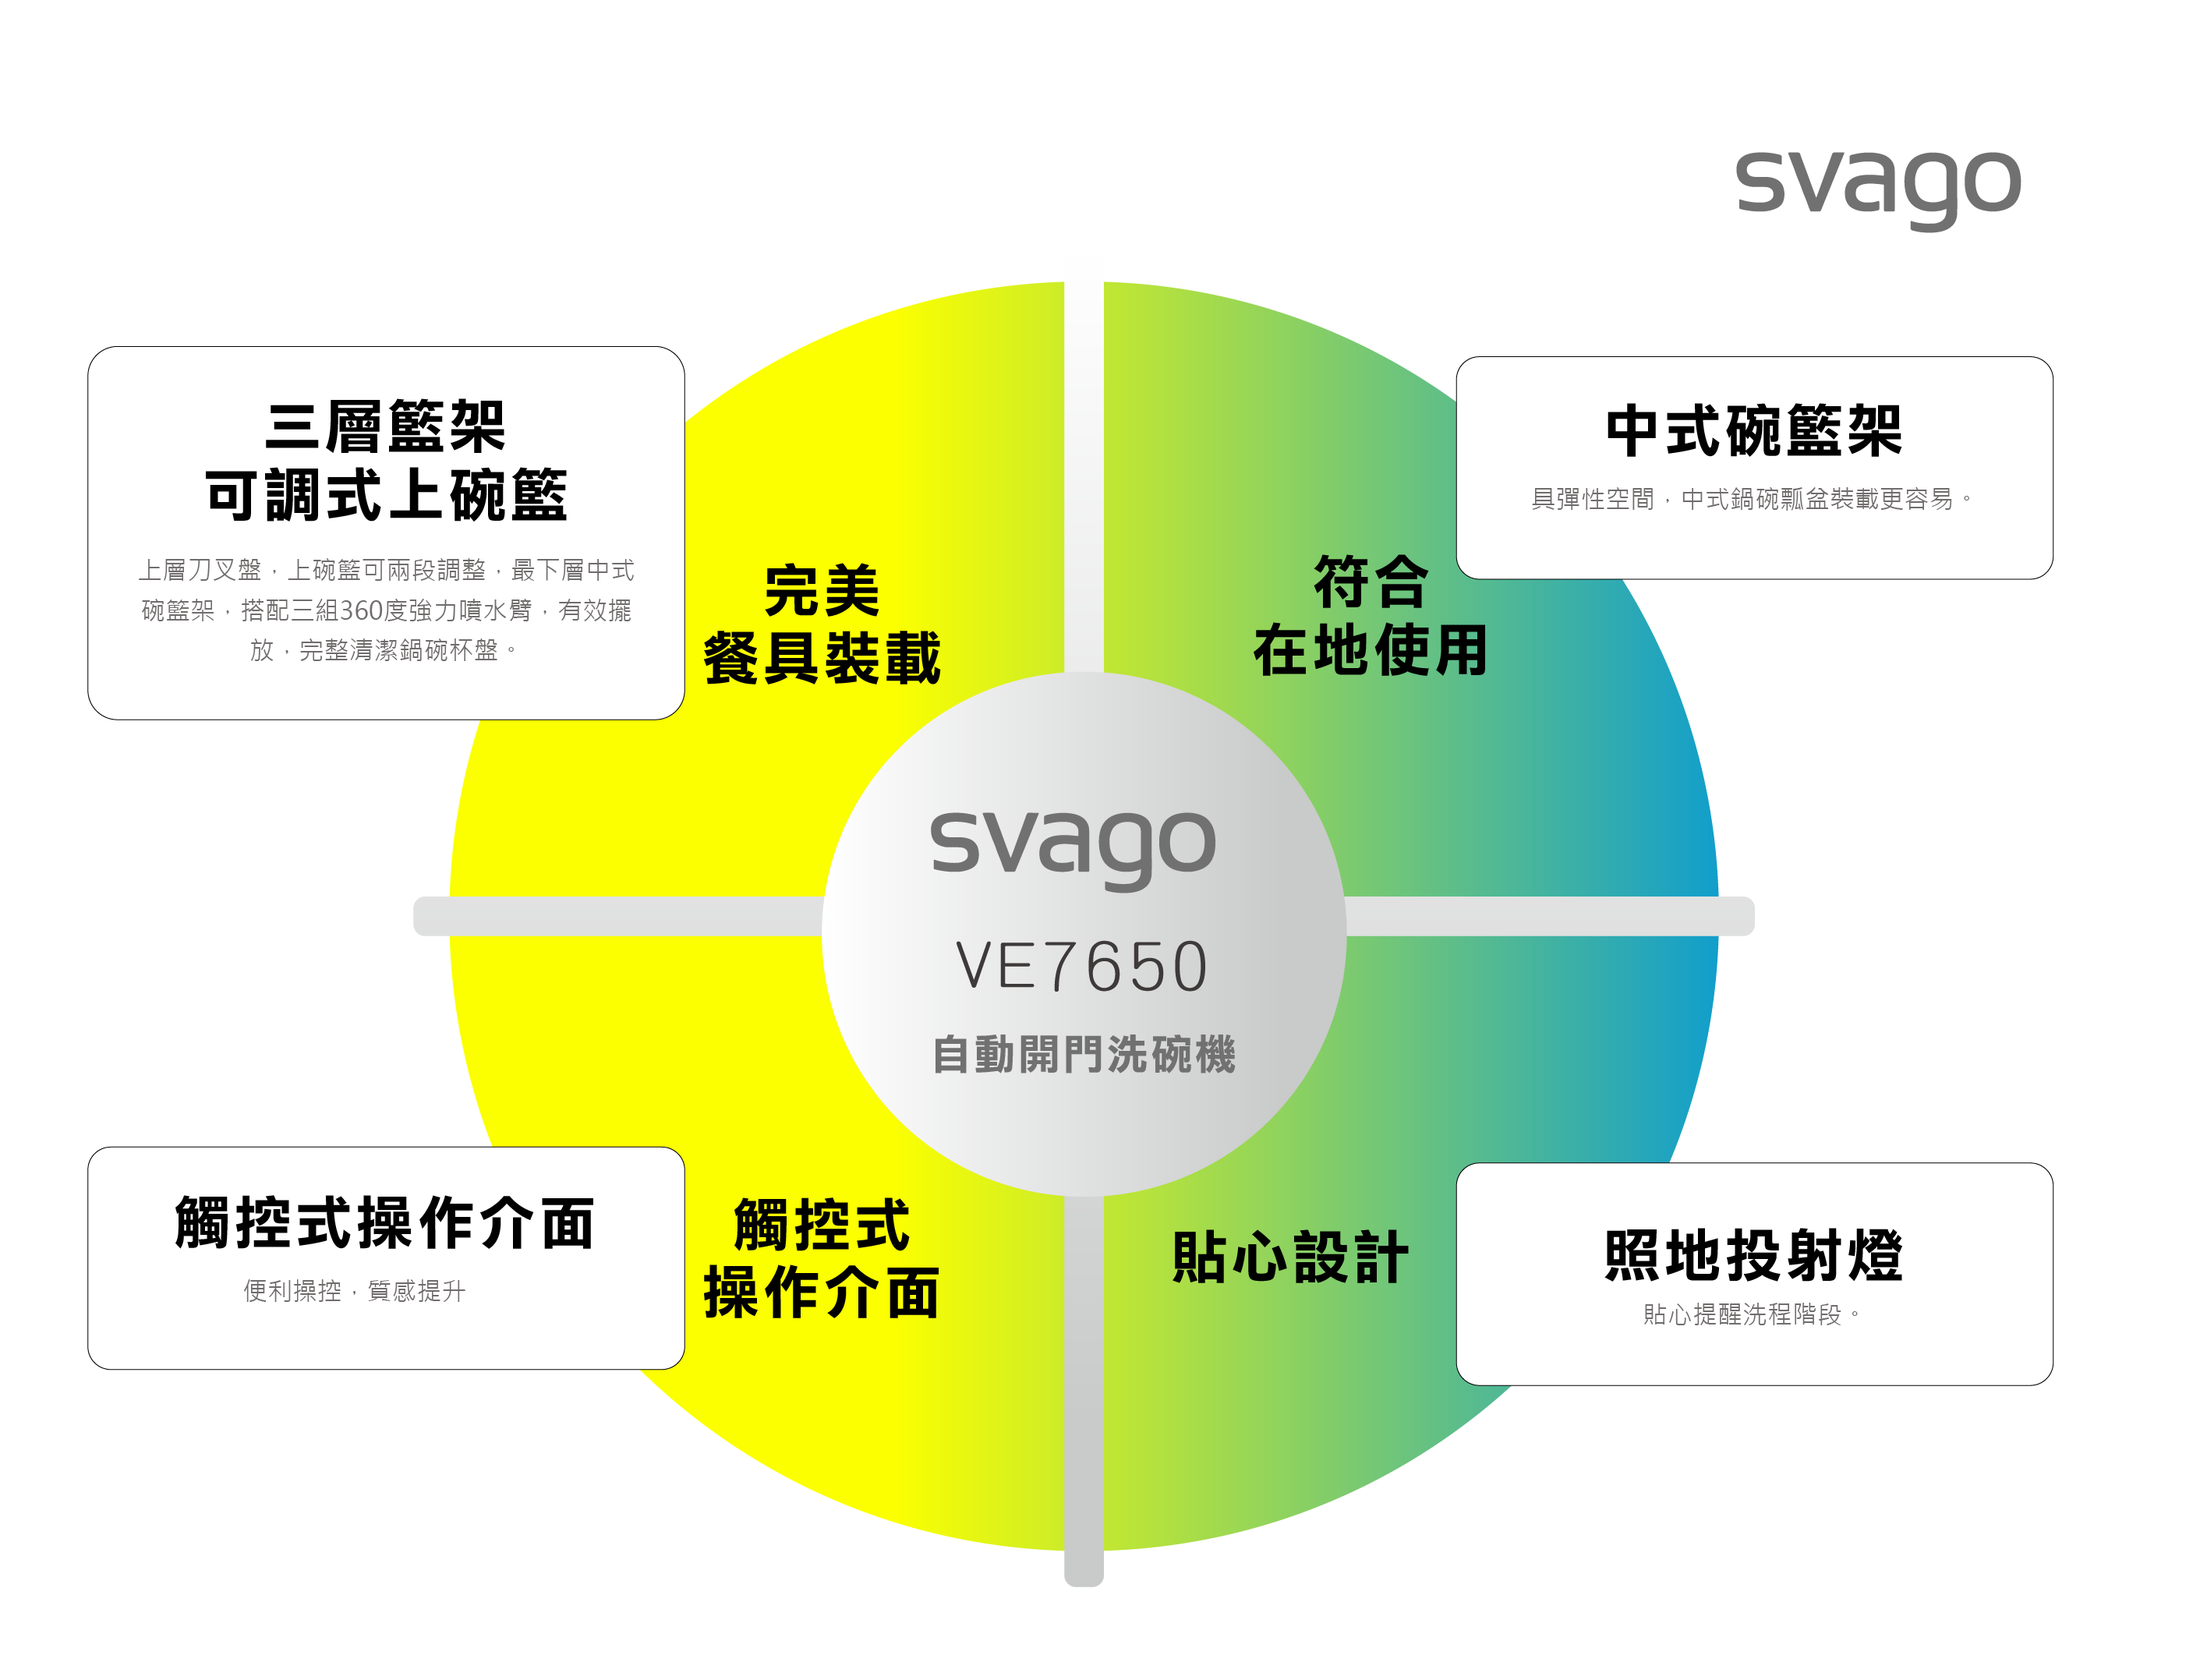
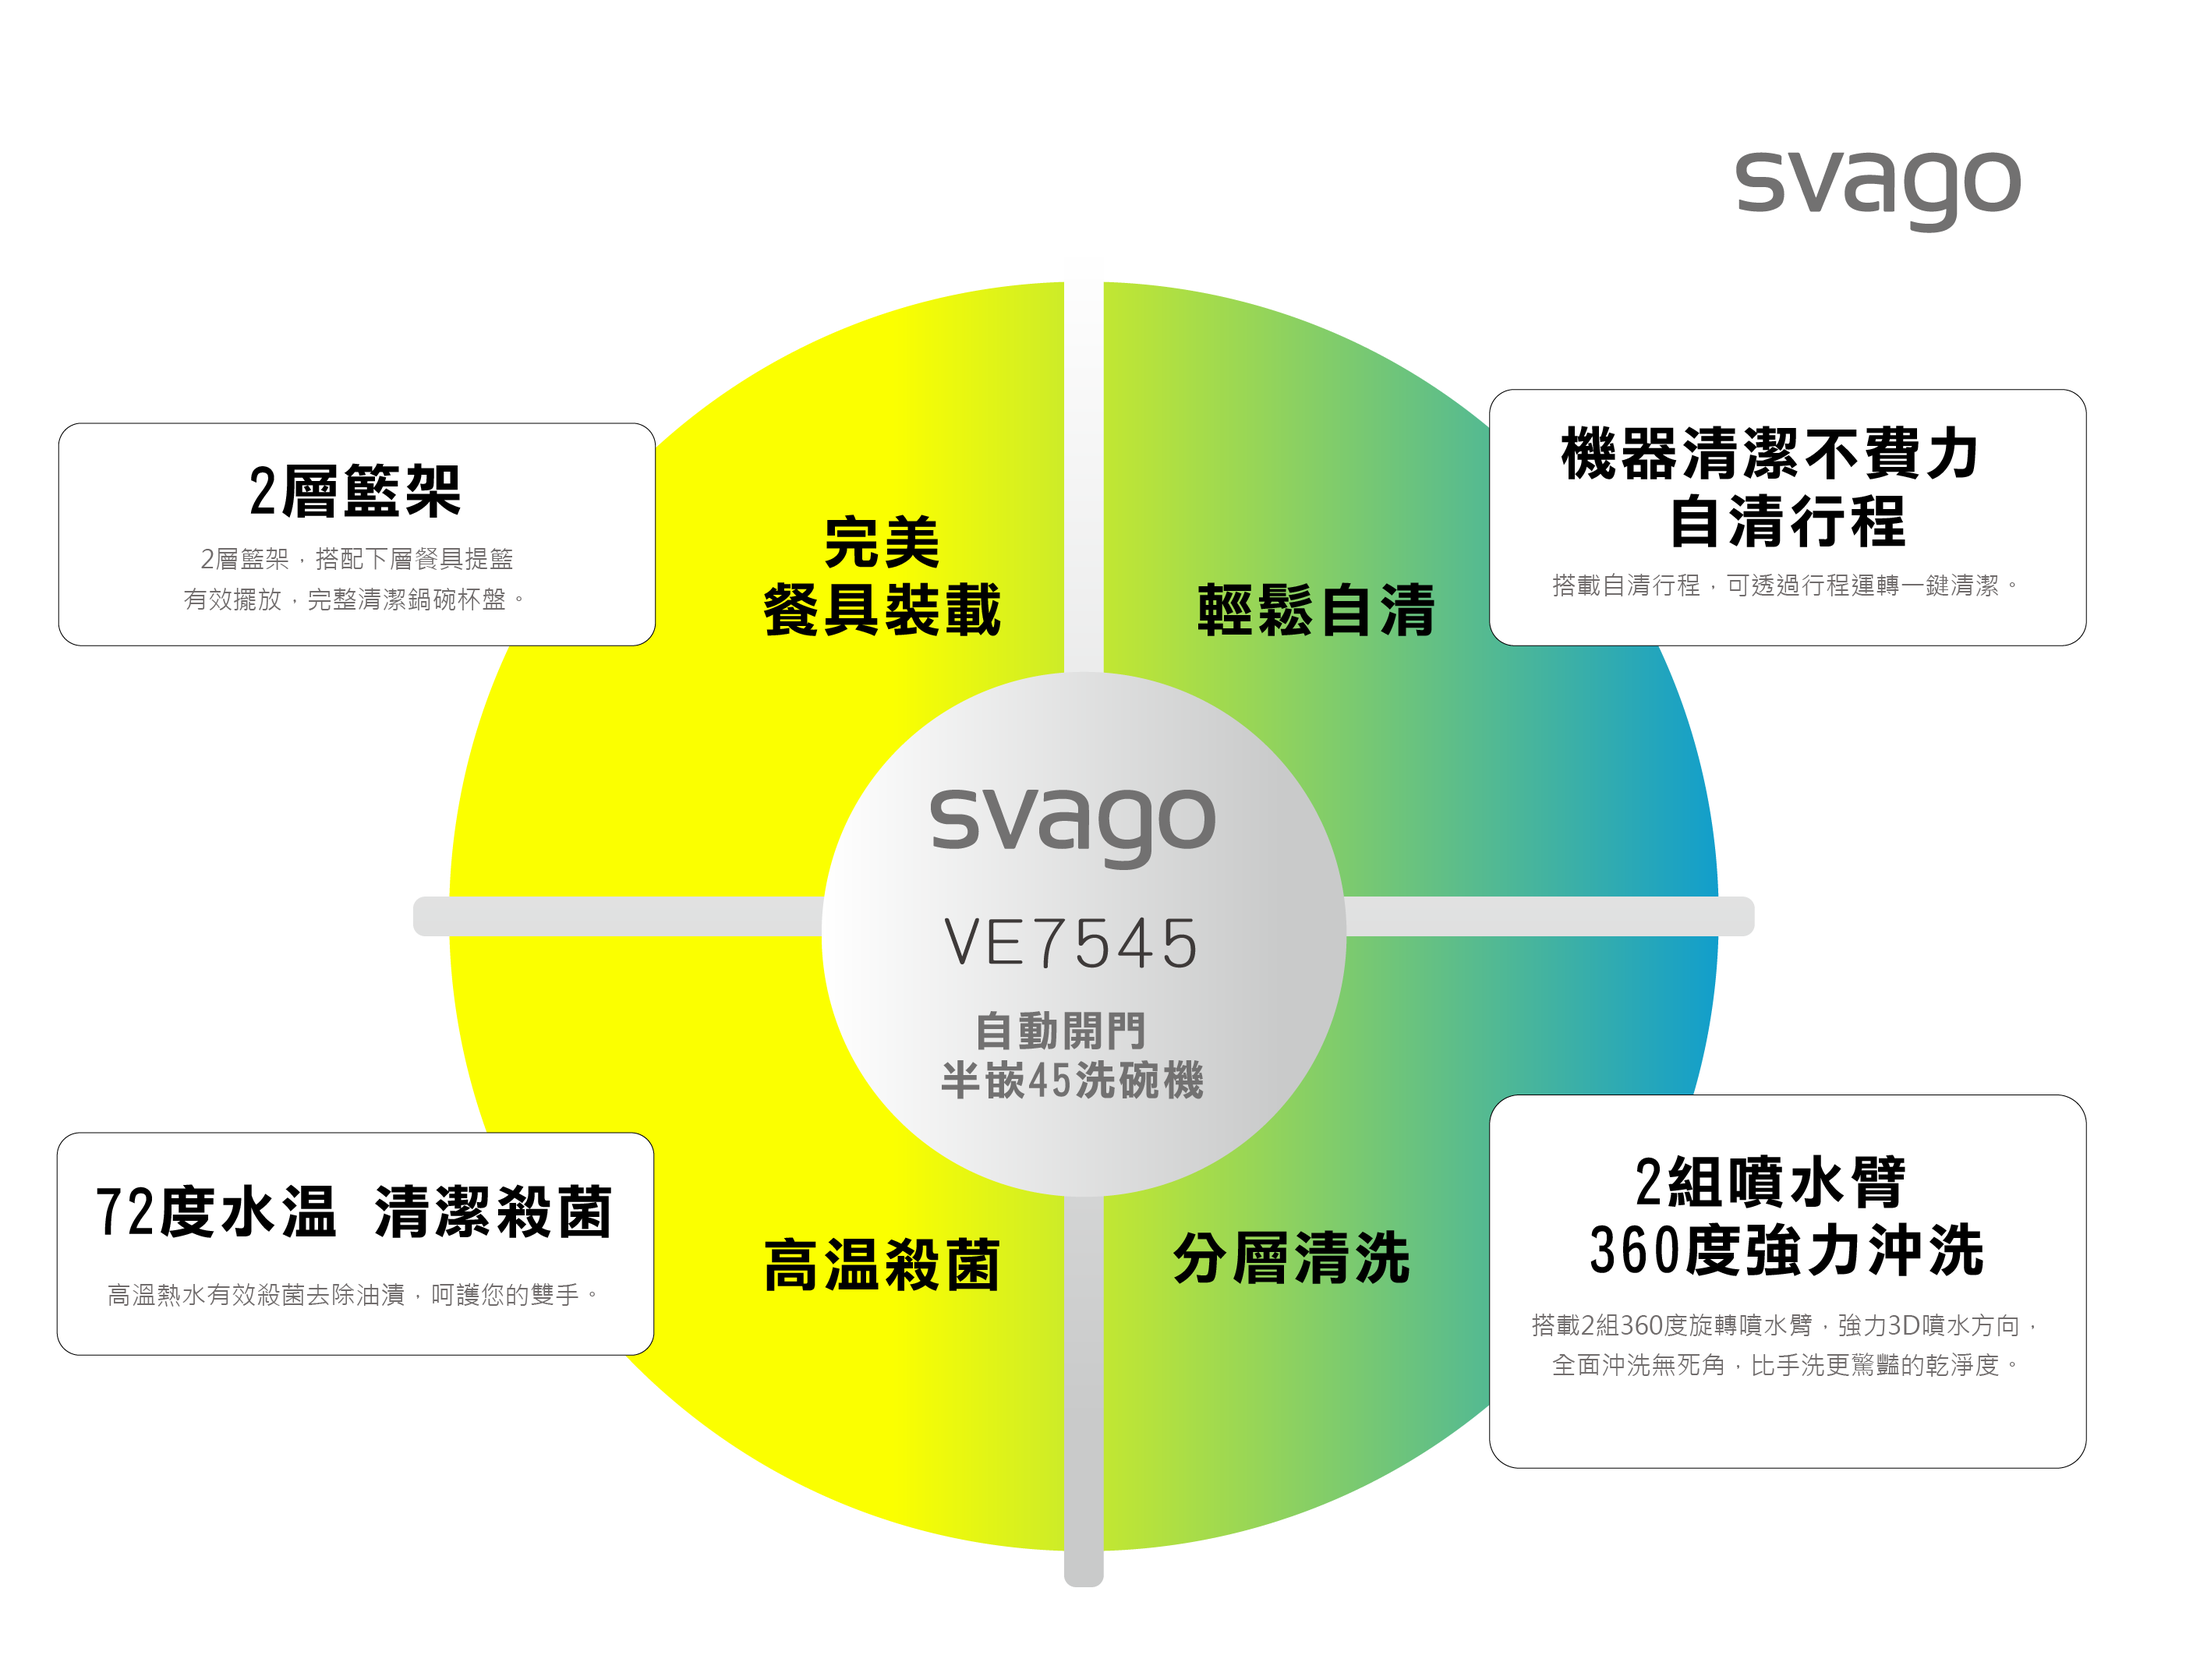
更新 Svago 洗碗機

diff --git a/src/views/Material/SvagoView.vue b/src/views/Material/SvagoView.vue
@@ -4,12 +4,16 @@ import Page01View from './Svago/Page01.vue'
 import Page02View from './Svago/Page02.vue'
 import Page03View from './Svago/Page03.vue'
 import Page04View from './Svago/Page04.vue'
+import Page05View from './Svago/Page05.vue'
+import Page06View from './Svago/Page06.vue'
 
 const pages = [
     { content: Page01View, isDark: true },
     { content: Page02View, isDark: true },
     { content: Page03View, isDark: true },
     { content: Page04View, isDark: true },
+    { content: Page05View, isDark: true },
+    { content: Page06View, isDark: true },
 ];
 
 const buttons = [

diff --git a/src/views/Material/Svago/Page05.vue b/src/views/Material/Svago/Page05.vue
@@ -1,0 +1,12 @@
+<script setup lang="ts">
+</script>
+
+<template>
+<div class="w-full h-full carousel-slide">
+    <img src="@/assets/images/materials/Svago/05.png" class="object-cover w-full h-full">
+</div>
+</template>
+
+<style scoped>
+
+</style>

diff --git a/src/views/Material/Svago/Page06.vue b/src/views/Material/Svago/Page06.vue
@@ -1,0 +1,12 @@
+<script setup lang="ts">
+</script>
+
+<template>
+<div class="w-full h-full carousel-slide">
+    <img src="@/assets/images/materials/Svago/06.png" class="object-cover w-full h-full">
+</div>
+</template>
+
+<style scoped>
+
+</style>
